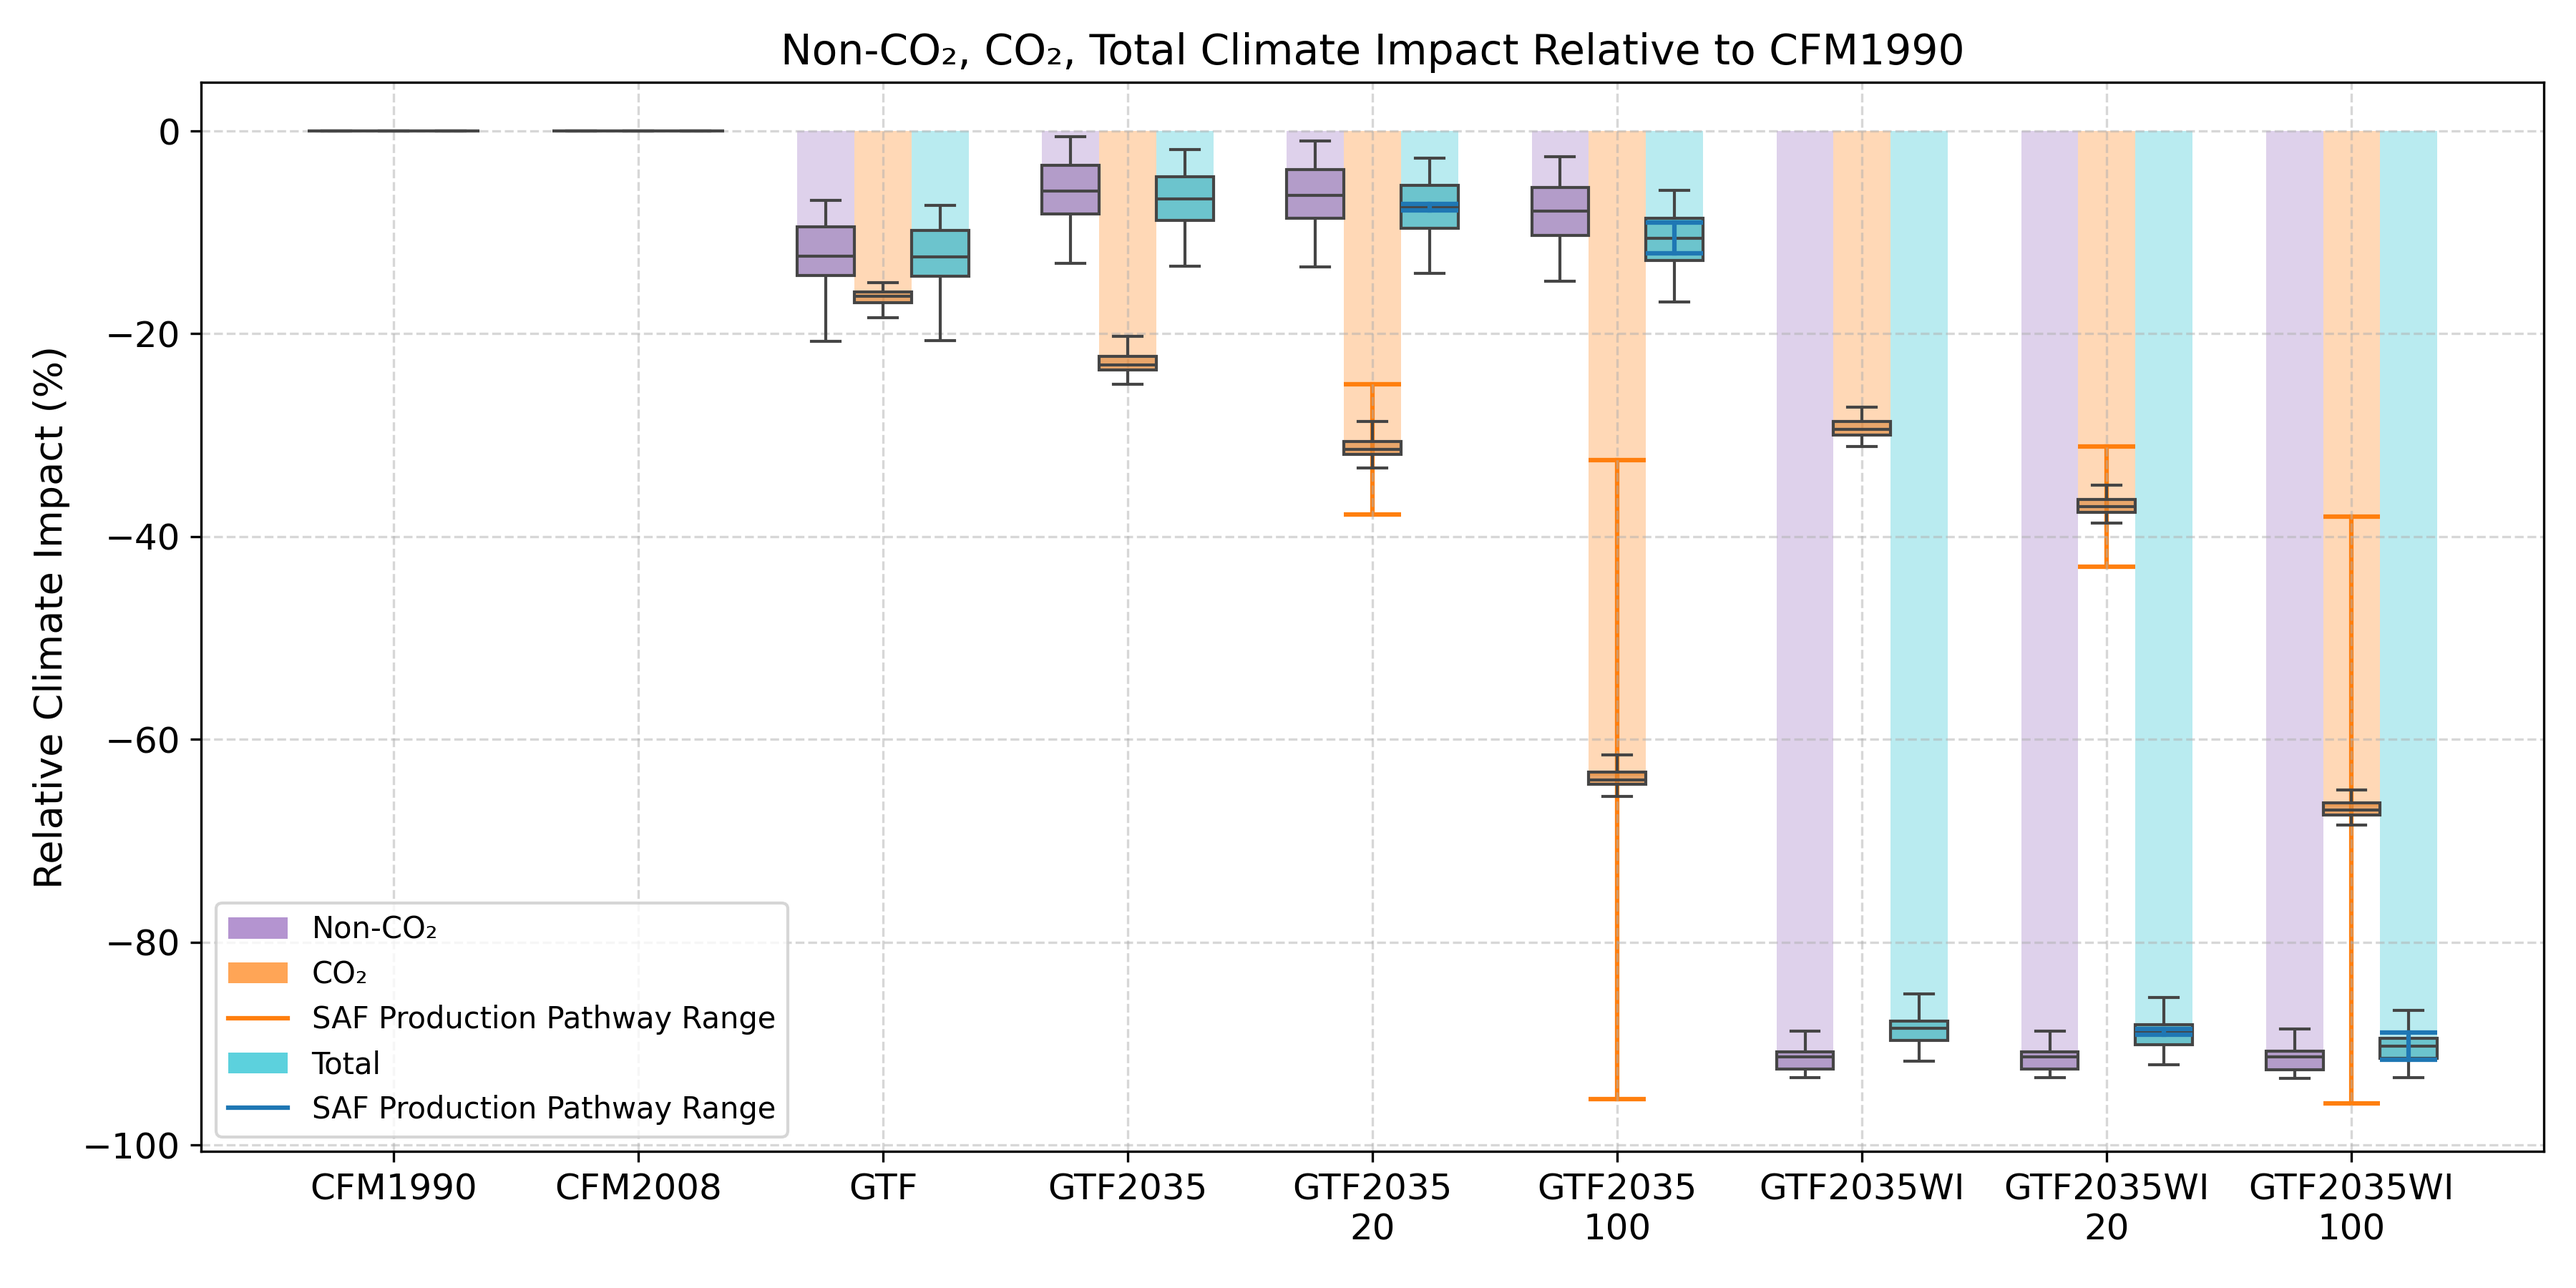
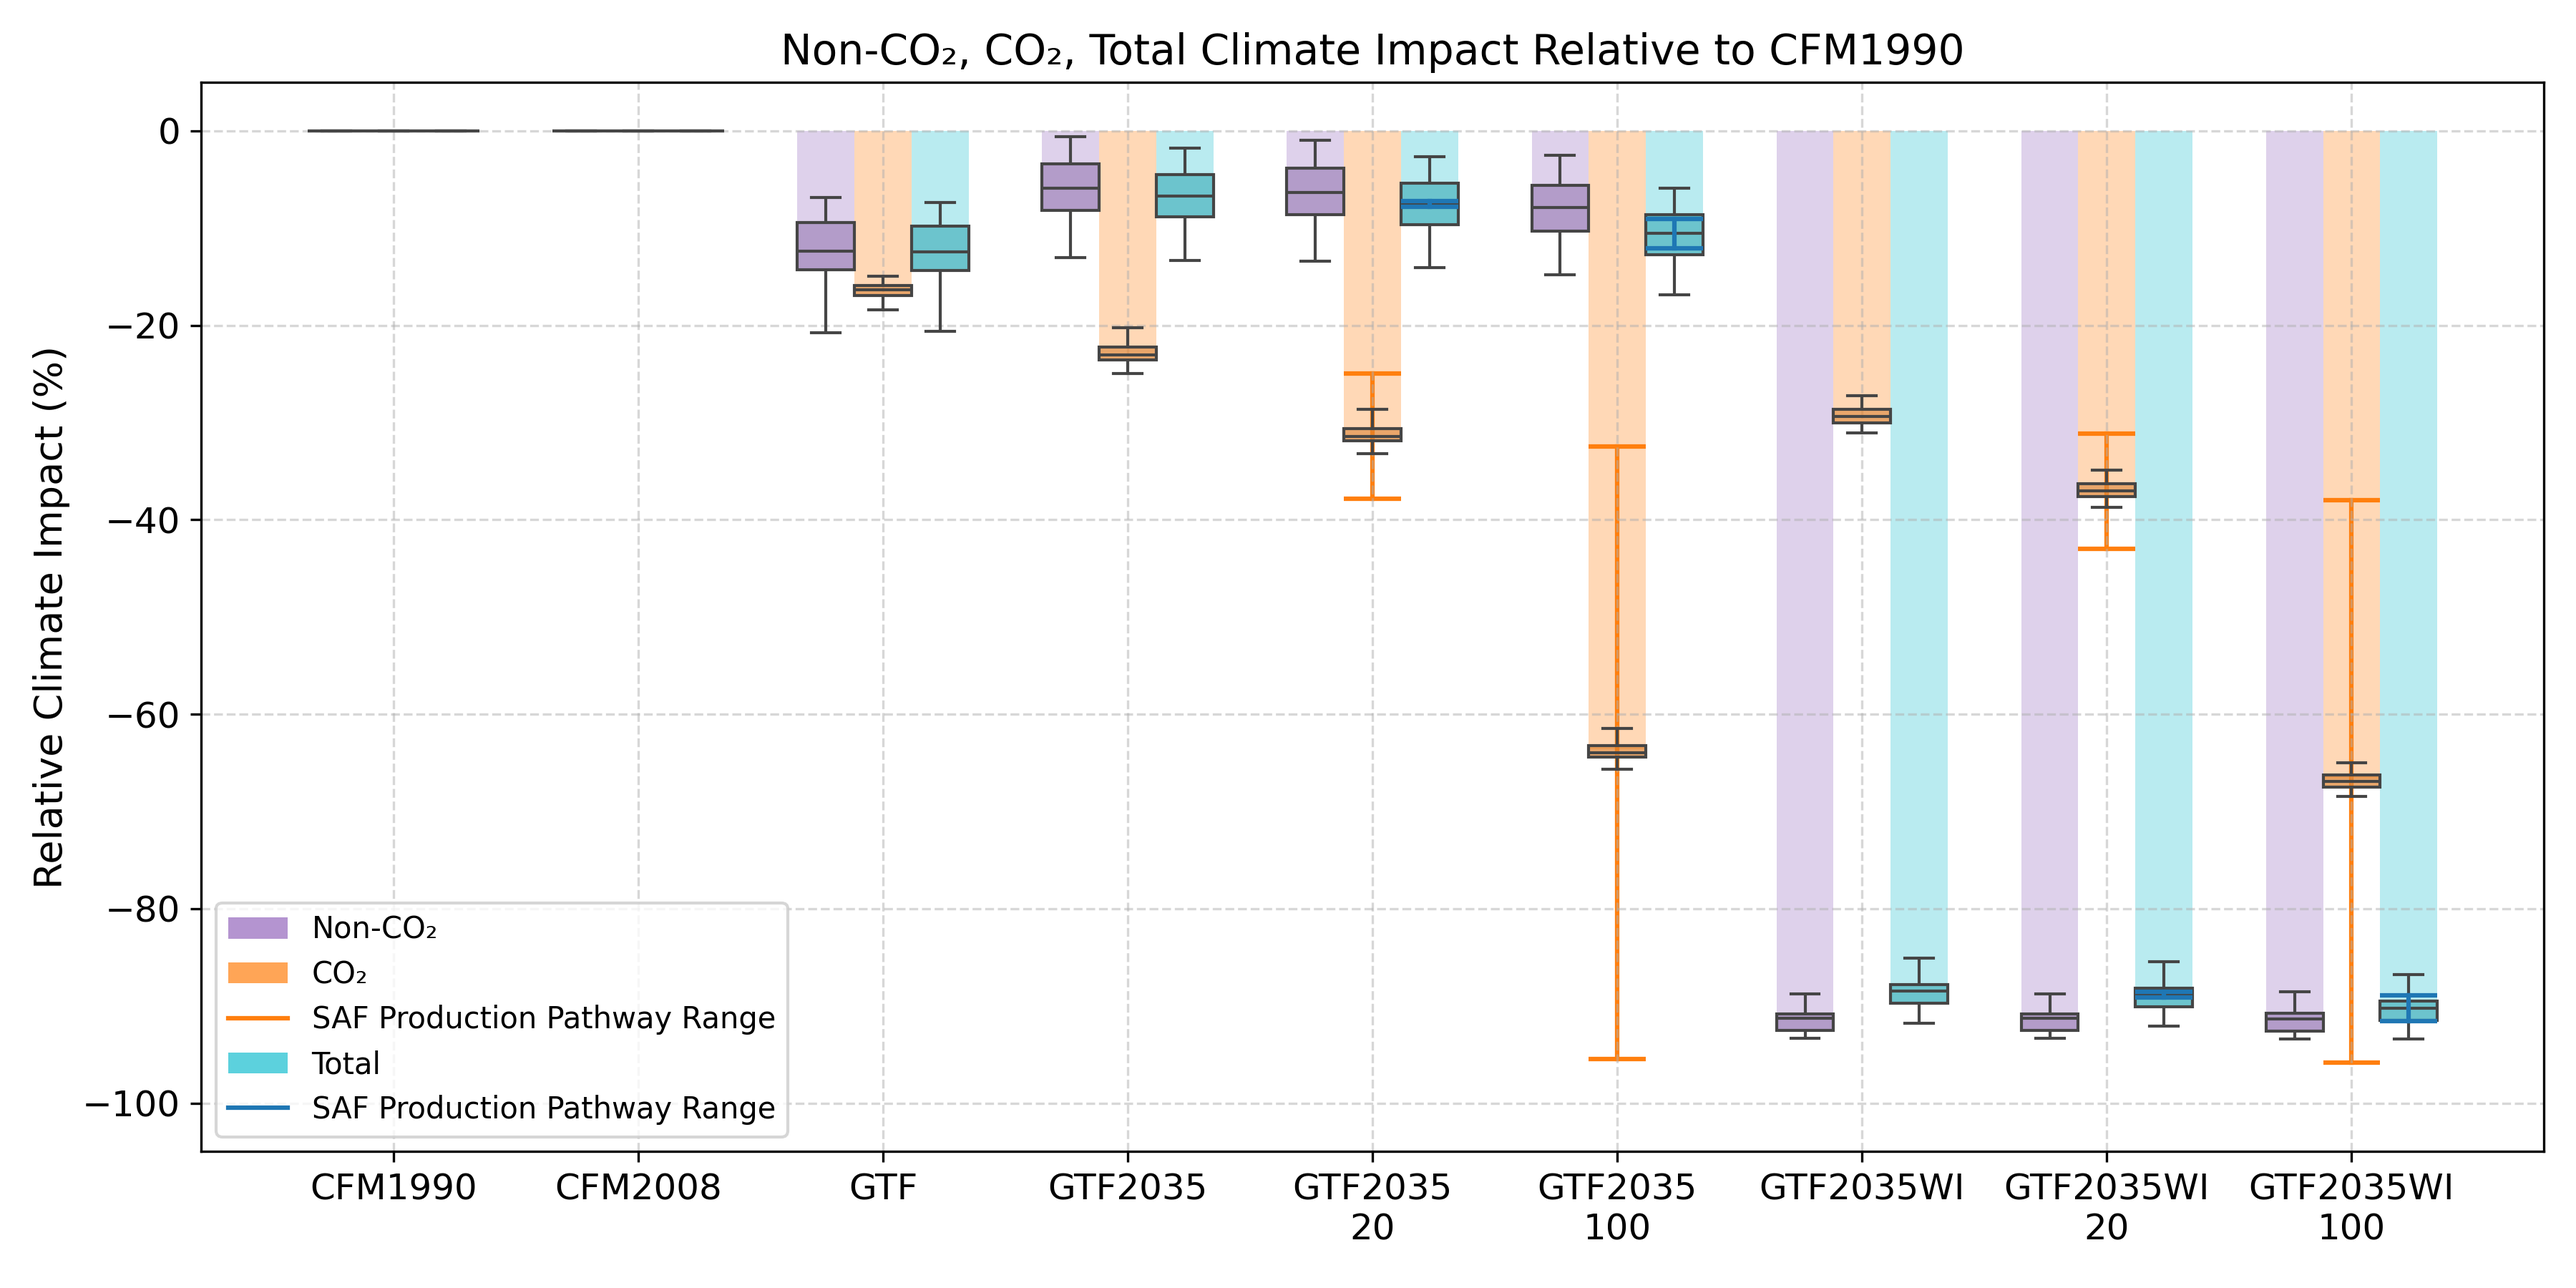
boxplots similar y limits, barplots special cases lower x tick font

diff --git a/results_climate_tables.py b/results_climate_tables.py
@@ -1721,7 +1721,7 @@ plot_rad_barplot_v3(contrail_yes_accf_changes, "contrail_yes_accf", metrics=['co
 # # plt.show()
 
 
-def plot_grouped_boxplot_v6(df, df_name, metrics):
+def plot_grouped_boxplot_v6(df, df_name, metrics, ylim=None):
     import seaborn as sns
     import matplotlib.pyplot as plt
     from matplotlib.patches import Patch, Rectangle
@@ -2169,6 +2169,8 @@ def plot_grouped_boxplot_v6(df, df_name, metrics):
     plt.yticks(fontsize=12)  # y-axis tick labels
     plt.ylabel(ax.get_ylabel(), fontsize=13)  # y-axis label
     plt.title(plot_title, fontsize=14)
+    if ylim is not None:
+        plt.ylim(ylim)
     plt.tight_layout()
     metric_abbreviations = [legend_titles.get(m, m.replace("_relative_change", "").replace("_", "")) for m in metrics]
     metric_str = "_".join(metric_abbreviations)  # Combine them with underscores
@@ -2193,32 +2195,32 @@ plot_grouped_boxplot_v6(contrail_no_accf_changes, "contrail_no_accf", metrics=['
 plot_grouped_boxplot_v6(contrail_no_accf_changes, "contrail_no_accf", metrics=['climate_non_co2_accf_cocip_pcfa_relative_change', 'co2_impact_cons_sum_relative_change'])
 plot_grouped_boxplot_v6(contrail_no_accf_changes, "contrail_no_accf", metrics=['climate_total_cons_accf_cocip_pcfa_relative_change'])
 
-plot_grouped_boxplot_v6(contrail_no_cocip_changes, "contrail_no_cocip", metrics=['h2o_impact_sum_relative_change','nox_impact_sum_relative_change','climate_non_co2_cocip_relative_change'])
+plot_grouped_boxplot_v6(contrail_no_cocip_changes, "contrail_no_cocip", metrics=['h2o_impact_sum_relative_change','nox_impact_sum_relative_change','climate_non_co2_cocip_relative_change'], ylim=[-105,5])
 plot_grouped_boxplot_v6(contrail_no_cocip_changes, "contrail_no_cocip", metrics=['climate_non_co2_cocip_relative_change', 'co2_impact_cons_sum_relative_change'])
 plot_grouped_boxplot_v6(contrail_no_cocip_changes, "contrail_no_cocip", metrics=['climate_total_cons_cocip_relative_change'])
-plot_grouped_boxplot_v6(contrail_no_cocip_changes, "no_cocip", metrics=['climate_non_co2_cocip_relative_change', 'co2_impact_cons_sum_relative_change', 'climate_total_cons_cocip_relative_change'])
+plot_grouped_boxplot_v6(contrail_no_cocip_changes, "no_cocip", metrics=['climate_non_co2_cocip_relative_change', 'co2_impact_cons_sum_relative_change', 'climate_total_cons_cocip_relative_change'], ylim=[-105,5])
 
 plot_grouped_boxplot_v6(contrail_yes_cocip_changes, "contrail_yes_cocip", metrics=['nox_impact_sum_relative_change', 'contrail_atr20_cocip_sum_relative_change'])
-plot_grouped_boxplot_v6(contrail_yes_cocip_changes, "contrail_yes_cocip", metrics=['h2o_impact_sum_relative_change','nox_impact_sum_relative_change', 'contrail_atr20_cocip_sum_relative_change','climate_non_co2_cocip_relative_change'])
-plot_grouped_boxplot_v6(contrail_yes_cocip_changes, "contrail_yes_cocip", metrics=['contrail_atr20_cocip_sum_relative_change'])
+plot_grouped_boxplot_v6(contrail_yes_cocip_changes, "contrail_yes_cocip", metrics=['h2o_impact_sum_relative_change','nox_impact_sum_relative_change', 'contrail_atr20_cocip_sum_relative_change','climate_non_co2_cocip_relative_change'], ylim=[-105,50])
+plot_grouped_boxplot_v6(contrail_yes_cocip_changes, "contrail_yes_cocip", metrics=['contrail_atr20_cocip_sum_relative_change'], ylim=[-105, 40])
 
 
 plot_grouped_boxplot_v6(contrail_yes_cocip_changes, "contrail_yes_cocip", metrics=['climate_non_co2_cocip_relative_change', 'co2_impact_cons_sum_relative_change'])
 plot_grouped_boxplot_v6(contrail_yes_cocip_changes, "contrail_yes_cocip", metrics=['climate_total_cons_cocip_relative_change'])
 plot_grouped_boxplot_v6(contrail_yes_cocip_changes, "yes_cocip", metrics=['climate_non_co2_cocip_relative_change', 'climate_total_cons_cocip_relative_change'])
-plot_grouped_boxplot_v6(contrail_yes_cocip_changes, "yes_cocip", metrics=['climate_non_co2_cocip_relative_change','co2_impact_cons_sum_relative_change', 'climate_total_cons_cocip_relative_change'])
+plot_grouped_boxplot_v6(contrail_yes_cocip_changes, "yes_cocip", metrics=['climate_non_co2_cocip_relative_change','co2_impact_cons_sum_relative_change', 'climate_total_cons_cocip_relative_change'], ylim=[-105,50])
 plot_grouped_boxplot_v6(contrail_yes_accf_changes, "contrail_yes_accf", metrics=['nox_impact_sum_relative_change', 'contrail_atr20_accf_cocip_pcfa_sum_relative_change'])
-plot_grouped_boxplot_v6(contrail_yes_accf_changes, "contrail_yes_accf", metrics=['h2o_impact_sum_relative_change' ,'nox_impact_sum_relative_change', 'contrail_atr20_accf_cocip_pcfa_sum_relative_change', 'climate_non_co2_accf_cocip_pcfa_relative_change'])
+plot_grouped_boxplot_v6(contrail_yes_accf_changes, "contrail_yes_accf", metrics=['h2o_impact_sum_relative_change' ,'nox_impact_sum_relative_change', 'contrail_atr20_accf_cocip_pcfa_sum_relative_change', 'climate_non_co2_accf_cocip_pcfa_relative_change'], ylim=[-105,50])
 plot_grouped_boxplot_v6(contrail_yes_accf_changes, "contrail_yes_accf", metrics=['climate_non_co2_accf_cocip_pcfa_relative_change', 'co2_impact_cons_sum_relative_change'])
 plot_grouped_boxplot_v6(contrail_yes_accf_changes, "contrail_yes_accf", metrics=['climate_total_cons_accf_cocip_pcfa_relative_change'])
 plot_grouped_boxplot_v6(contrail_yes_accf_changes, "yes_accf", metrics=['climate_non_co2_accf_cocip_pcfa_relative_change', 'climate_total_cons_accf_cocip_pcfa_relative_change'])
-plot_grouped_boxplot_v6(contrail_yes_accf_changes, "yes_accf", metrics=['climate_non_co2_accf_cocip_pcfa_relative_change', 'co2_impact_cons_sum_relative_change', 'climate_total_cons_accf_cocip_pcfa_relative_change'])
+plot_grouped_boxplot_v6(contrail_yes_accf_changes, "yes_accf", metrics=['climate_non_co2_accf_cocip_pcfa_relative_change', 'co2_impact_cons_sum_relative_change', 'climate_total_cons_accf_cocip_pcfa_relative_change'], ylim=[-105,50])
 plot_grouped_boxplot_v6(contrail_yes_accf_changes, "contrail_yes_accf", metrics=['contrail_atr20_accf_cocip_pcfa_sum_relative_change'])
 
 contrail_night_cocip_changes = contrail_yes_cocip_changes[contrail_yes_cocip_changes['diurnal'] == 'nighttime'].copy()
 contrail_day_cocip_changes = contrail_yes_cocip_changes[contrail_yes_cocip_changes['diurnal'] == 'daytime'].copy()
-plot_grouped_boxplot_v6(contrail_night_cocip_changes, "contrail_night_cocip", metrics=['h2o_impact_sum_relative_change','nox_impact_sum_relative_change', 'contrail_atr20_cocip_sum_relative_change','climate_non_co2_cocip_relative_change'])
-plot_grouped_boxplot_v6(contrail_day_cocip_changes, "contrail_day_cocip", metrics=['h2o_impact_sum_relative_change','nox_impact_sum_relative_change', 'contrail_atr20_cocip_sum_relative_change','climate_non_co2_cocip_relative_change'])
+plot_grouped_boxplot_v6(contrail_night_cocip_changes, "contrail_night_cocip", metrics=['h2o_impact_sum_relative_change','nox_impact_sum_relative_change', 'contrail_atr20_cocip_sum_relative_change','climate_non_co2_cocip_relative_change'], ylim=[-105,50])
+plot_grouped_boxplot_v6(contrail_day_cocip_changes, "contrail_day_cocip", metrics=['h2o_impact_sum_relative_change','nox_impact_sum_relative_change', 'contrail_atr20_cocip_sum_relative_change','climate_non_co2_cocip_relative_change'], ylim=[-105,50])
 
 
 def plot_emissions_boxplot(df, df_name, metrics=['nox_impact_sum', 'contrail_atr20_cocip_sum']):
@@ -3127,6 +3129,9 @@ def plot_grouped_boxplot_nvpm(df, df_name, metrics):
     plt.yticks(fontsize=12)  # y-axis tick labels
     plt.ylabel(ax.get_ylabel(), fontsize=13)  # y-axis label
     plt.title(plot_title, fontsize=14)
+    plt.ylim(-105,85)
+    yticks = np.arange(-100, 81, 20)  # Covers a little beyond your ylim for clean ticks
+    plt.yticks(yticks)
     plt.tight_layout()
     metric_abbreviations = [legend_titles.get(m, m.replace("_relative_change", "").replace("_", "")) for m in metrics]
     metric_str = "_".join(metric_abbreviations)  # Combine them with underscores

diff --git a/results_emissions_v3.py b/results_emissions_v3.py
@@ -2279,7 +2279,7 @@ for engine, saf_levels in engines_saf_levels.items():
 
         merged_df = pd.merge(df_engine, df_gtf1990, on='row_key', how='inner')
 
-        engine_has_atr20 = merged_df['cocip_atr20'].fillna(0) > 0
+        engine_has_atr20 = merged_df['cocip_atr20'].fillna(0) != 0
         gtf1990_has_none = merged_df['atr20_gtf1990'].fillna(0) == 0
 
         count = ((engine_has_atr20) & (gtf1990_has_none)).sum()
@@ -2287,7 +2287,7 @@ for engine, saf_levels in engines_saf_levels.items():
 
 # Print result
 for (engine, saf), count in comparison_results.items():
-    print(f"{engine} SAF {saf}: {count} contrail segments with ATR20 > 0 while GTF1990 had none")
+    print(f"{engine} SAF {saf}: {count} contrail segments with ATR20 != 0 while GTF1990 had none")
 
 
 reverse_comparison_results = {}
@@ -2310,7 +2310,7 @@ for engine, saf_levels in engines_saf_levels.items():
         merged_df = pd.merge(df_gtf1990, df_engine, on='row_key', how='inner')
 
         # GTF1990 has ATR20 > 0, other engine has 0 or NaN
-        gtf1990_has_atr20 = merged_df['atr20_gtf1990'].fillna(0) > 0
+        gtf1990_has_atr20 = merged_df['atr20_gtf1990'].fillna(0) != 0
         engine_has_none = merged_df[f'atr20_{engine}_{saf}'].fillna(0) == 0
 
         count = ((gtf1990_has_atr20) & (engine_has_none)).sum()
@@ -2318,4 +2318,16 @@ for engine, saf_levels in engines_saf_levels.items():
 
 # Print results
 for (engine, saf), count in reverse_comparison_results.items():
-    print(f"{engine} SAF {saf}: {count} cases where GTF1990 had ATR20 > 0 but this engine did not")
+    print(f"{engine} SAF {saf}: {count} cases where GTF1990 had ATR20 != 0 but this engine did not")
+
+# Filter for cruise phase and altitude > 9200 meters
+cruise_filter = (final_df['flight_phase'] == 'cruise') & (final_df['altitude'] > 9200)
+
+# Group by engine config
+grouped = final_df[cruise_filter].groupby(['engine', 'saf_level', 'water_injection'])
+
+# Count number of rows per engine config
+counts = grouped.size().reset_index(name='cruise_rows_above_9200m')
+
+# Print result
+print(counts)

diff --git a/results_climate_map_engine_comp_signdiff.py b/results_climate_map_engine_comp_signdiff.py
@@ -491,7 +491,7 @@ def plot_engine_barplot(df, df_name):
         plt.bar(x + i * width, grouped[metric], alpha=0.7, label=legend_titles[metric], width=width, color=color)
 
     # Labeling and formatting
-    plt.xticks(fontsize=12)  # x-axis tick labels
+    plt.xticks(fontsize=11)  # x-axis tick labels
     plt.yticks(fontsize=12)  # y-axis tick labels
     plt.ylabel("P-ATR20 (K)", fontsize=13)  # y-axis label with updated fontsize
     plt.title("Climate Impact Contributions per Engine", fontsize=14)  # updated fontsize
